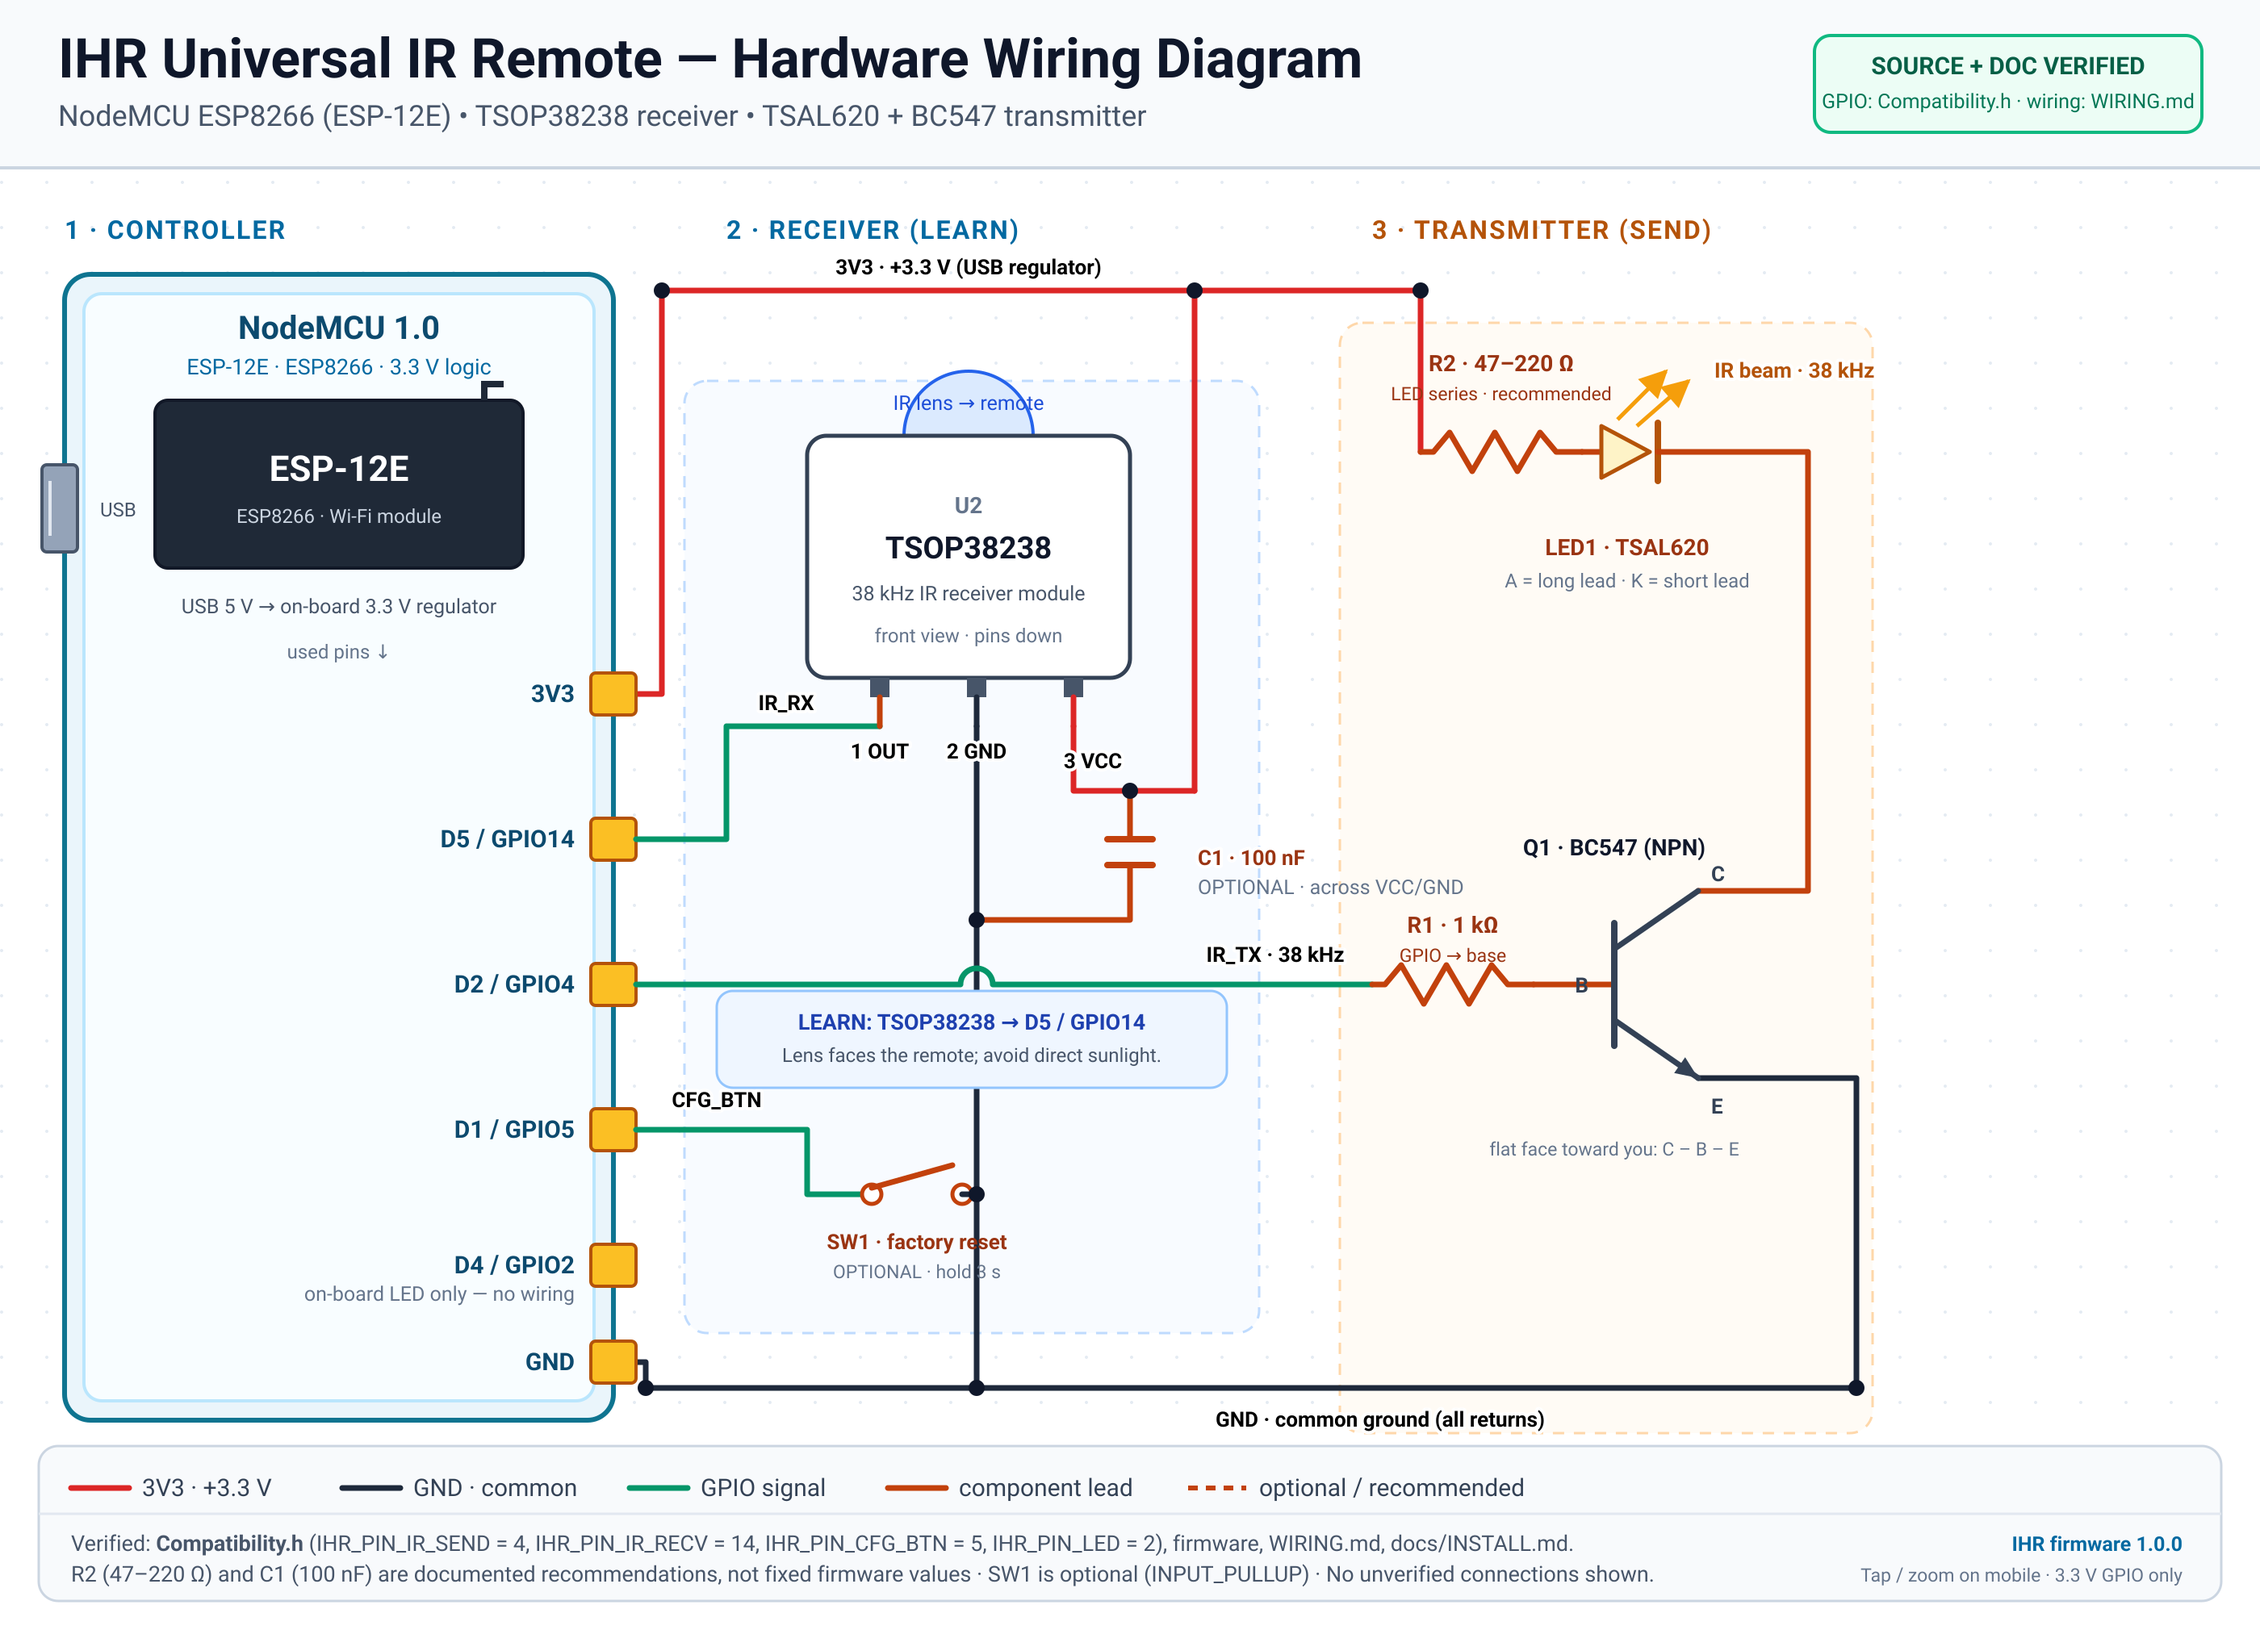
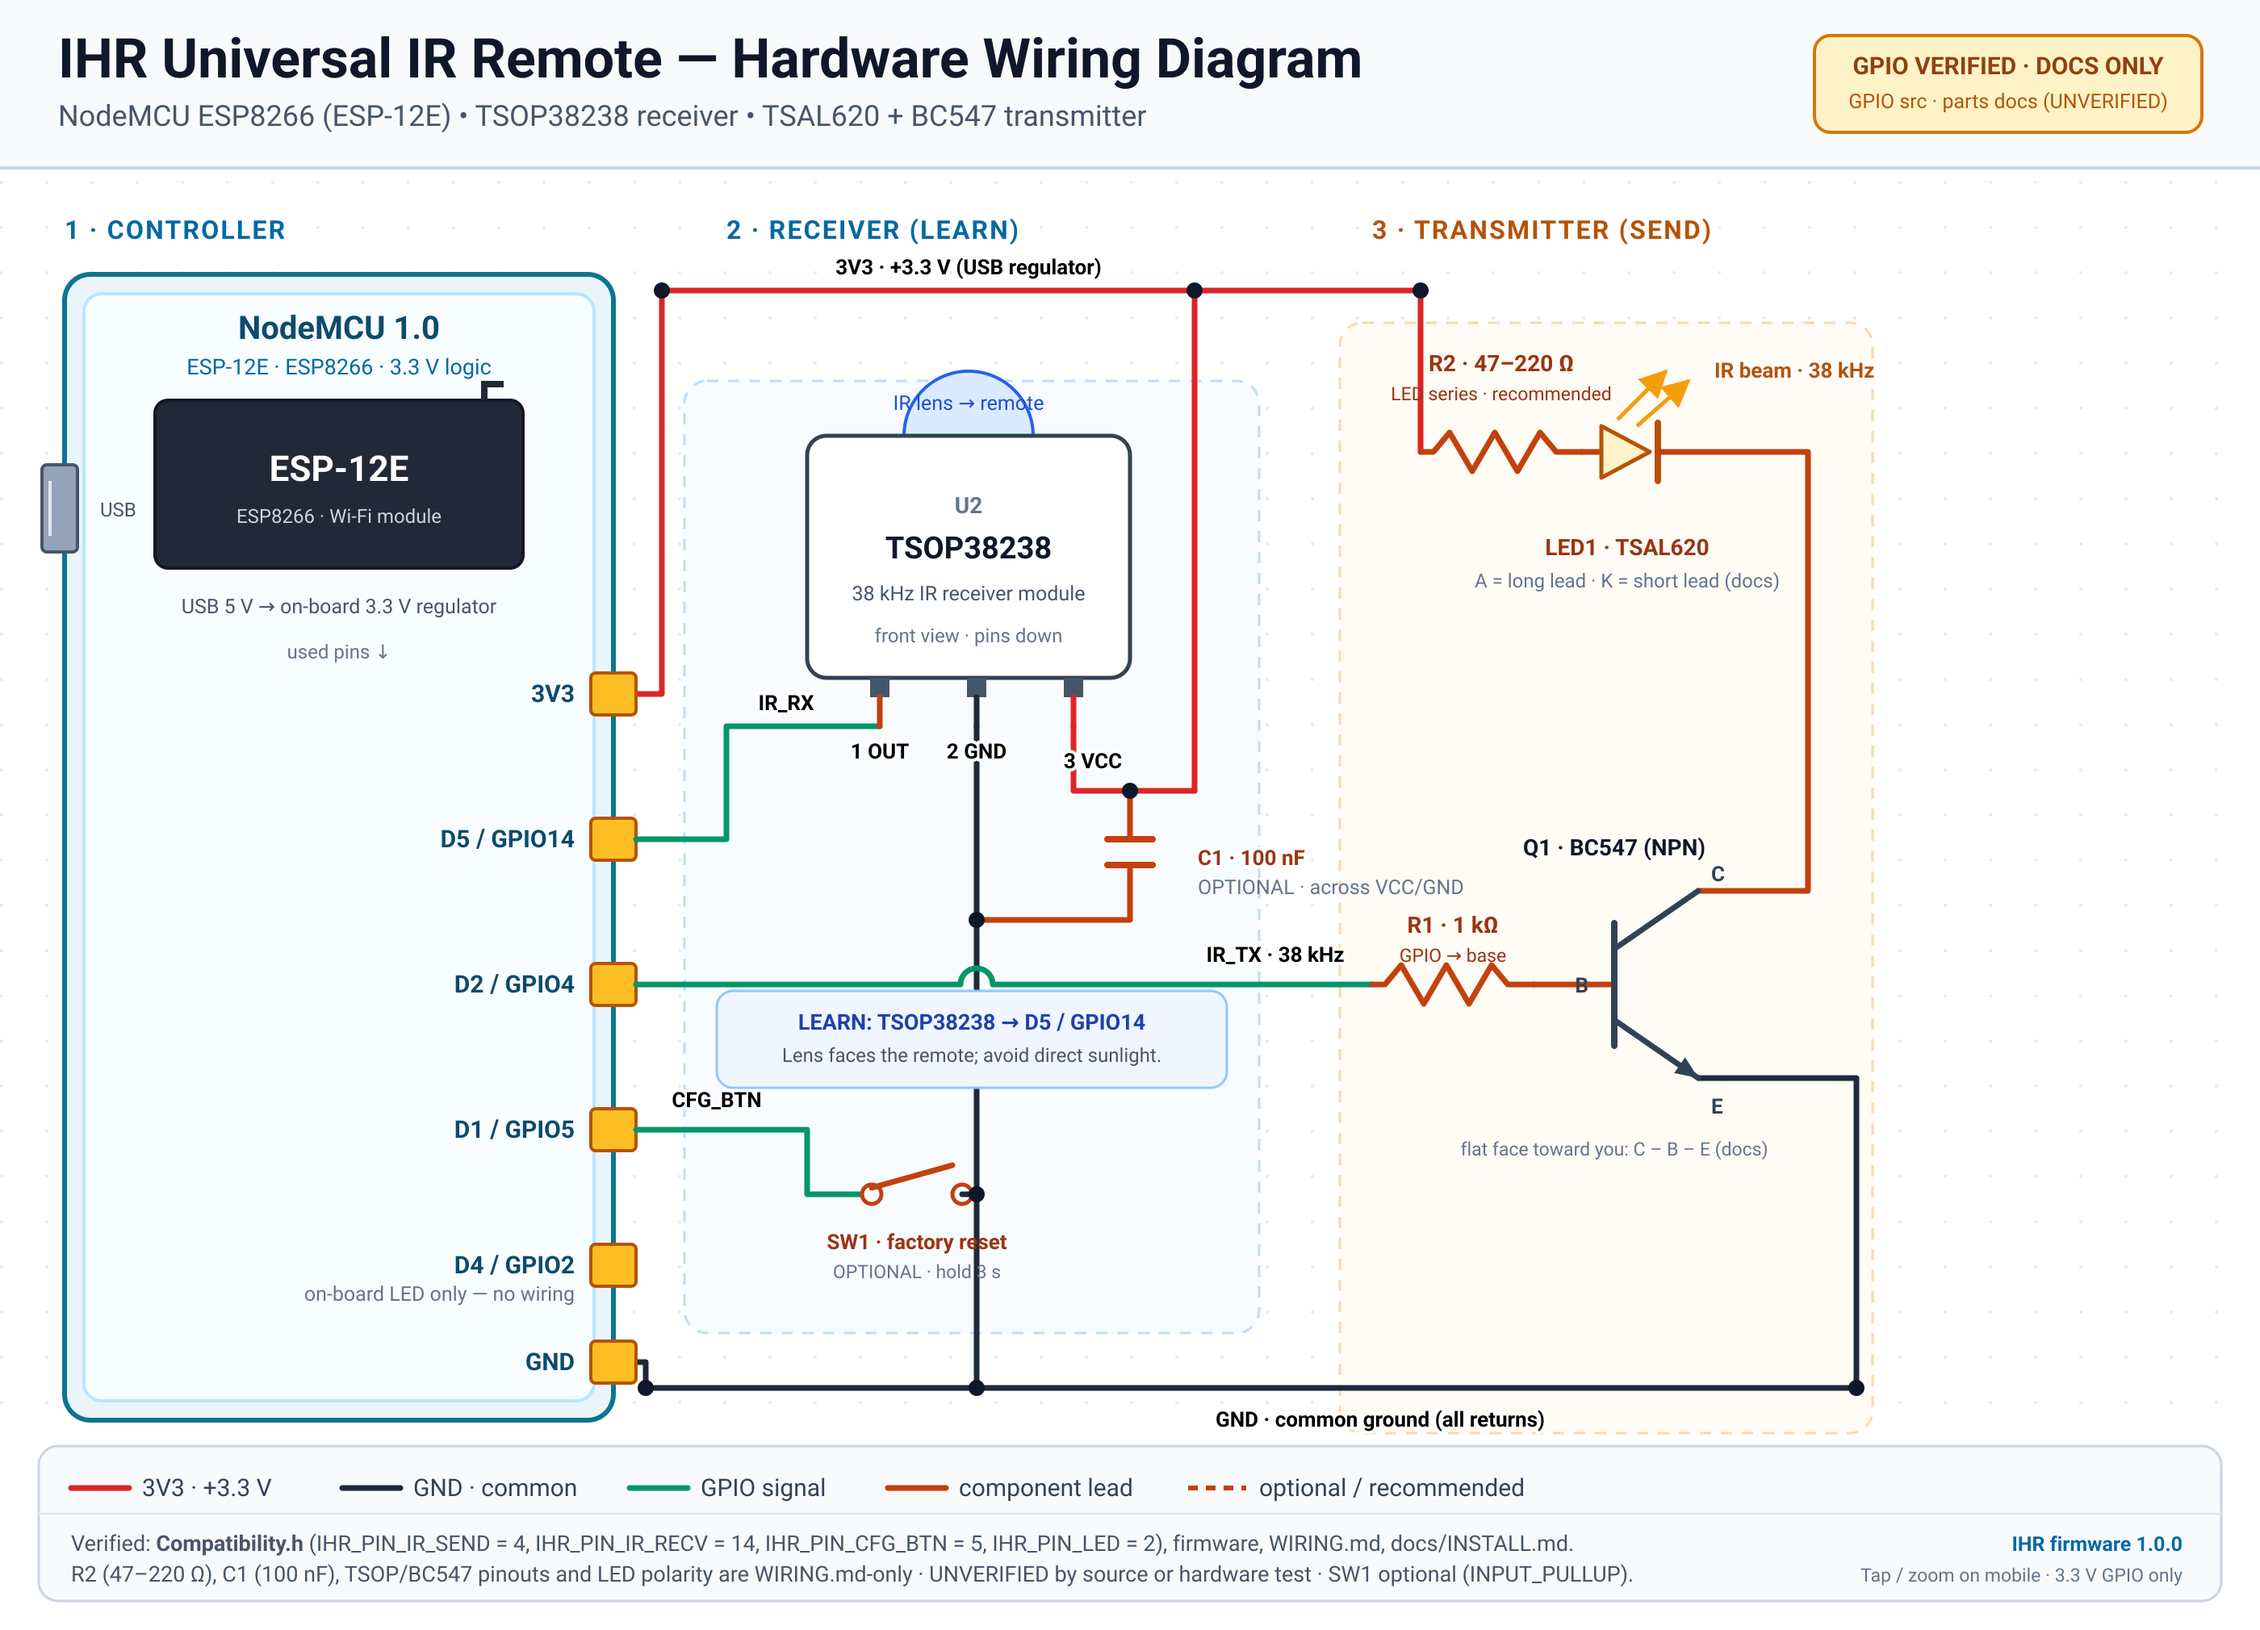
docs: label documented-only wiring details as unverified
Clarify that only GPIO numbers are source-verified. TSOP38238/BC547 pin order, TSAL620 polarity, and resistor/capacitor values come from WIRING.md and are marked UNVERIFIED in the diagram and docs. Regenerate the PNG preview from the updated SVG. No firmware or GPIO changes.

diff --git a/WIRING.md b/WIRING.md
@@ -17,20 +17,20 @@
 | Scalable SVG | [ihr-ir-wiring.svg](docs/images/ihr-ir-wiring.svg) | GitHub-এ ইনলাইন দেখা যায়; জুম করলেও অস্পষ্ট হয় না (মোবাইলে ছবিতে ট্যাপ করে জুম করুন) |
 | PNG প্রিভিউ (2800 × 2020) | [ihr-ir-wiring.png](docs/images/ihr-ir-wiring.png) | যেসব জায়গায় SVG দেখা যায় না |
 
-**ডায়াগ্রামের সংযোগগুলো কোথা থেকে যাচাই করা হয়েছে:**
+**যাচাইয়ের সীমা (source বনাম ডকুমেন্ট):**
 
-| চিত্রের অংশ | সংযোগ | Source |
+| চিত্রের অংশ | সংযোগ | যাচাই |
 |---|---|---|
-| D2 / GPIO4 | 1kΩ → BC547 **base** | `IHR_PIN_IR_SEND 4` (`Compatibility.h`), [অংশ ৩](#৩-আইআর-led-অংশ-ট্রান্সমিটার) |
-| BC547 **C** | TSAL620-এর cathode (ছোট পা) | [অংশ ৩](#৩-আইআর-led-অংশ-ট্রান্সমিটার) |
-| TSAL620 **A** (লম্বা পা) | 47–220Ω → 3V3 | [অংশ ৩](#৩-আইআর-led-অংশ-ট্রান্সমিটার) — মান *পরামর্শ*, firmware-এ fixed নয় |
-| BC547 **E** | GND | [অংশ ৩](#৩-আইআর-led-অংশ-ট্রান্সমিটার) |
-| D5 / GPIO14 | TSOP38238 **pin 1 (OUT)** | `IHR_PIN_IR_RECV 14` (`Compatibility.h`), [অংশ ৪](#৪-আইআর-রিসিভার-অংশ-tsop38238) |
-| TSOP pin 2 / pin 3 | GND / 3V3 | [অংশ ৪](#৪-আইআর-রিসিভার-অংশ-tsop38238) — Vishay TSOP382xx pin ক্রম (1=OUT, 2=GND, 3=Vs)-এর সাথে মেলে |
-| D1 / GPIO5 | ঐচ্ছিক SW1 → GND (`INPUT_PULLUP`, ৩ সেকেন্ড) | `IHR_PIN_CFG_BTN 5` (`Compatibility.h`), [অংশ ৫](#৫-ঐচ্ছিক-রিসেট-বাটন) |
-| D4 / GPIO2 | শুধু বিল্ট-ইন LED; বাইরে লাগাবেন না | `IHR_PIN_LED 2` (`Compatibility.h`) |
+| D2 / GPIO4 | 1kΩ → BC547 **base** | GPIO নম্বর `IHR_PIN_IR_SEND 4` + firmware-এ যাচাই; 1kΩ/base সংযোগ শুধু [অংশ ৩](#৩-আইআর-led-অংশ-ট্রান্সমিটার) — **UNVERIFIED** |
+| BC547 **C** | TSAL620 cathode (ছোট পা) | শুধু [অংশ ৩](#৩-আইআর-led-অংশ-ট্রান্সমিটার) — **UNVERIFIED** |
+| TSAL620 **A** (লম্বা পা) | 47–220Ω → 3V3 | শুধু [অংশ ৩](#৩-আইআর-led-অংশ-ট্রান্সমিটার) — **UNVERIFIED**; মান পরামর্শ, firmware-এ fixed নয় |
+| BC547 **E** | GND | শুধু [অংশ ৩](#৩-আইআর-led-অংশ-ট্রান্সমিটার) — **UNVERIFIED** |
+| D5 / GPIO14 | TSOP38238 **pin 1 (OUT)** | GPIO নম্বর `IHR_PIN_IR_RECV 14` + firmware-এ যাচাই; pin ক্রম শুধু [অংশ ৪](#৪-আইআর-রিসিভার-অংশ-tsop38238) — **UNVERIFIED** |
+| TSOP pin 2 / pin 3 | GND / 3V3 | শুধু [অংশ ৪](#৪-আইআর-রিসিভার-অংশ-tsop38238) — **UNVERIFIED** |
+| D1 / GPIO5 | ঐচ্ছিক SW1 → GND (`INPUT_PULLUP`, ৩ সেকেন্ড) | GPIO, pullup ও ৩ সেকেন্ড logic source-এ যাচাই; বাইরের wiring **UNVERIFIED** |
+| D4 / GPIO2 | শুধু বিল্ট-ইন LED (active LOW) | `IHR_PIN_LED 2` + `ihrSetLed()` source-এ যাচাই; বাইরে লাগাবেন না |
 
-`R2` (47–220Ω), `C1` (100nF) ও `SW1` চিত্রে **OPTIONAL / recommended** হিসেবে চিহ্নিত—এগুলো firmware-এ নির্ধারিত নয়, এই গাইডে পরামর্শ হিসেবে আছে। কোনো **unverified** সংযোগ চিত্রে দেখানো হয়নি। 38 kHz ডিফল্ট ক্যারিয়ার firmware (`khz = 38`) ও TSOP38238-র ভেতরের ফিল্টার—দুটির সাথে মেলে।
+`R1` (1kΩ), `R2` (47–220Ω), `C1` (100nF), TSOP38238/BC547-এর পিন ক্রম ও TSAL620 polarity শুধু এই গাইডে আছে—রিপোজিটরিতে schematic, BOM, datasheet বা হার্ডওয়্যার টেস্ট নেই, তাই **UNVERIFIED**। 38 kHz ডিফল্ট ক্যারিয়ার firmware-এ যাচাই করা (`khz = 38`); TSOP38238-র ভেতরের ফিল্টার দাবিও **UNVERIFIED**।
 
 ---
 
